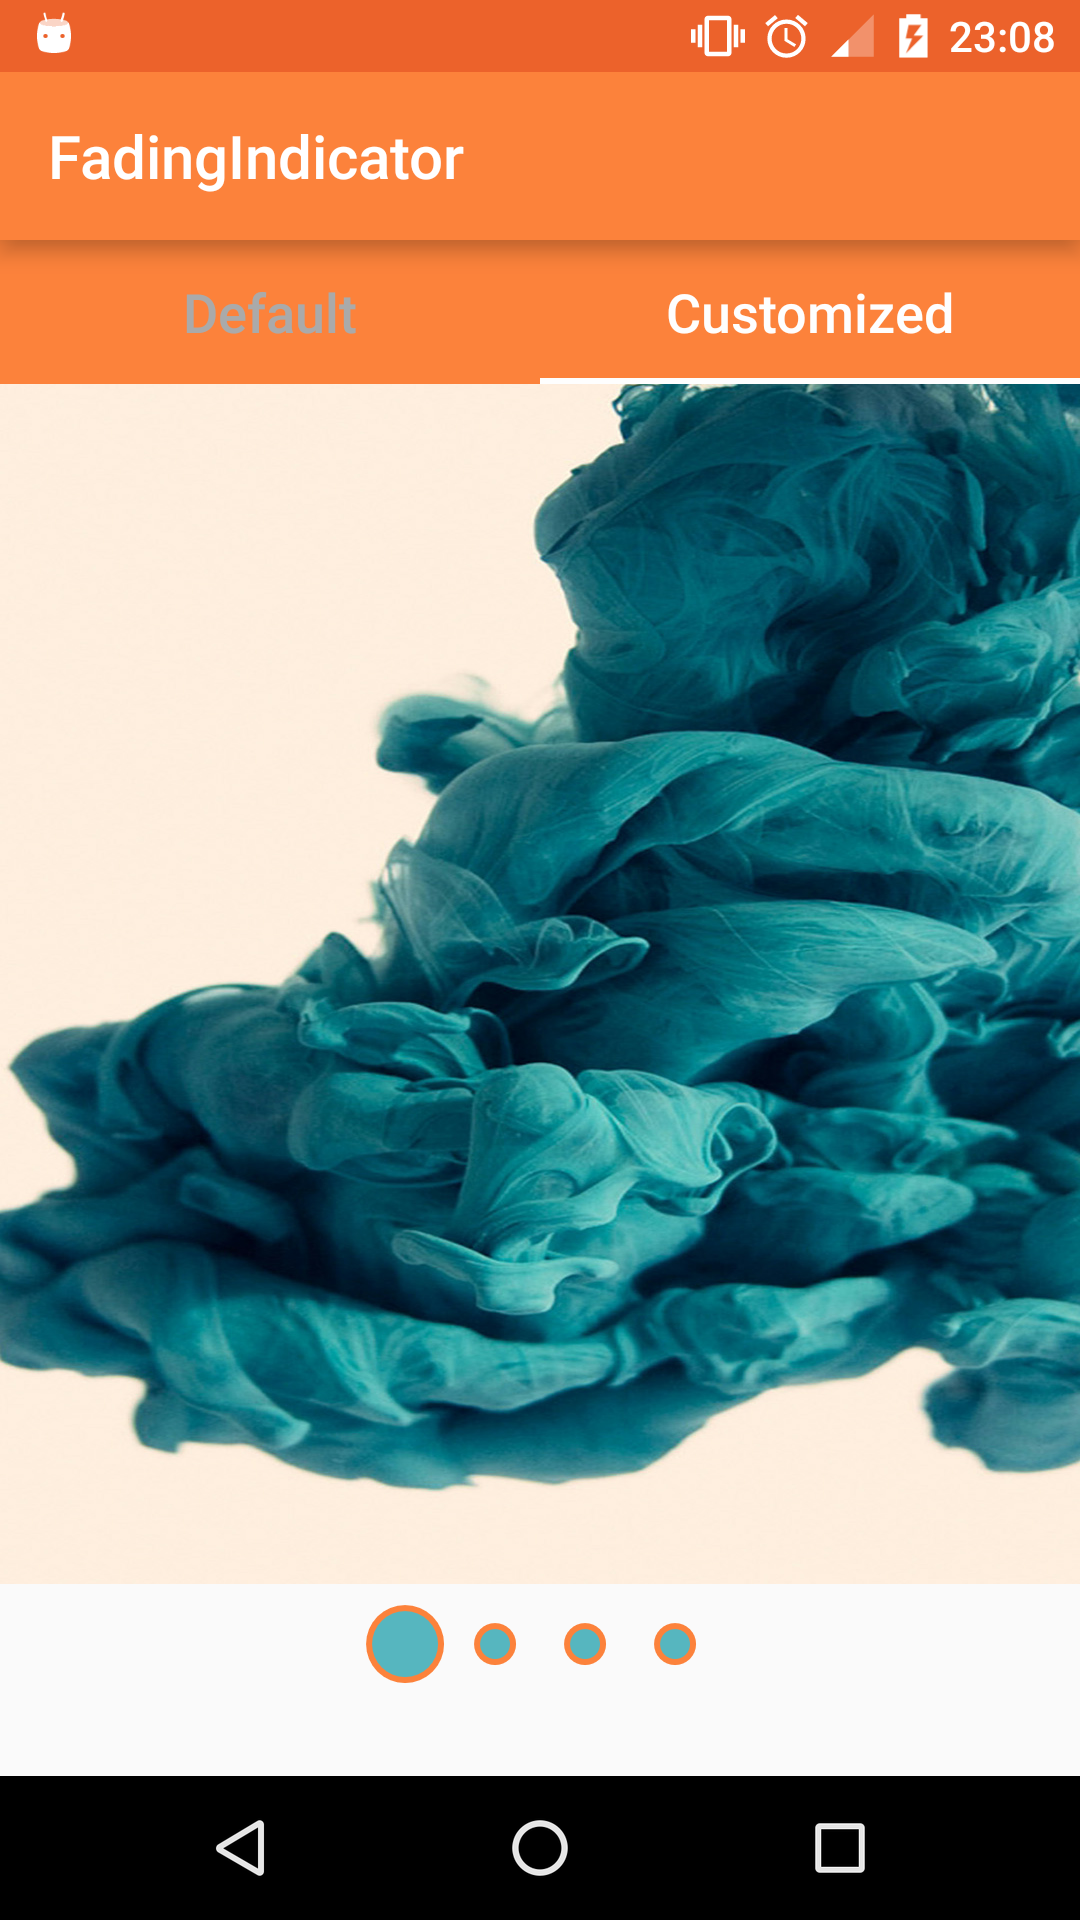
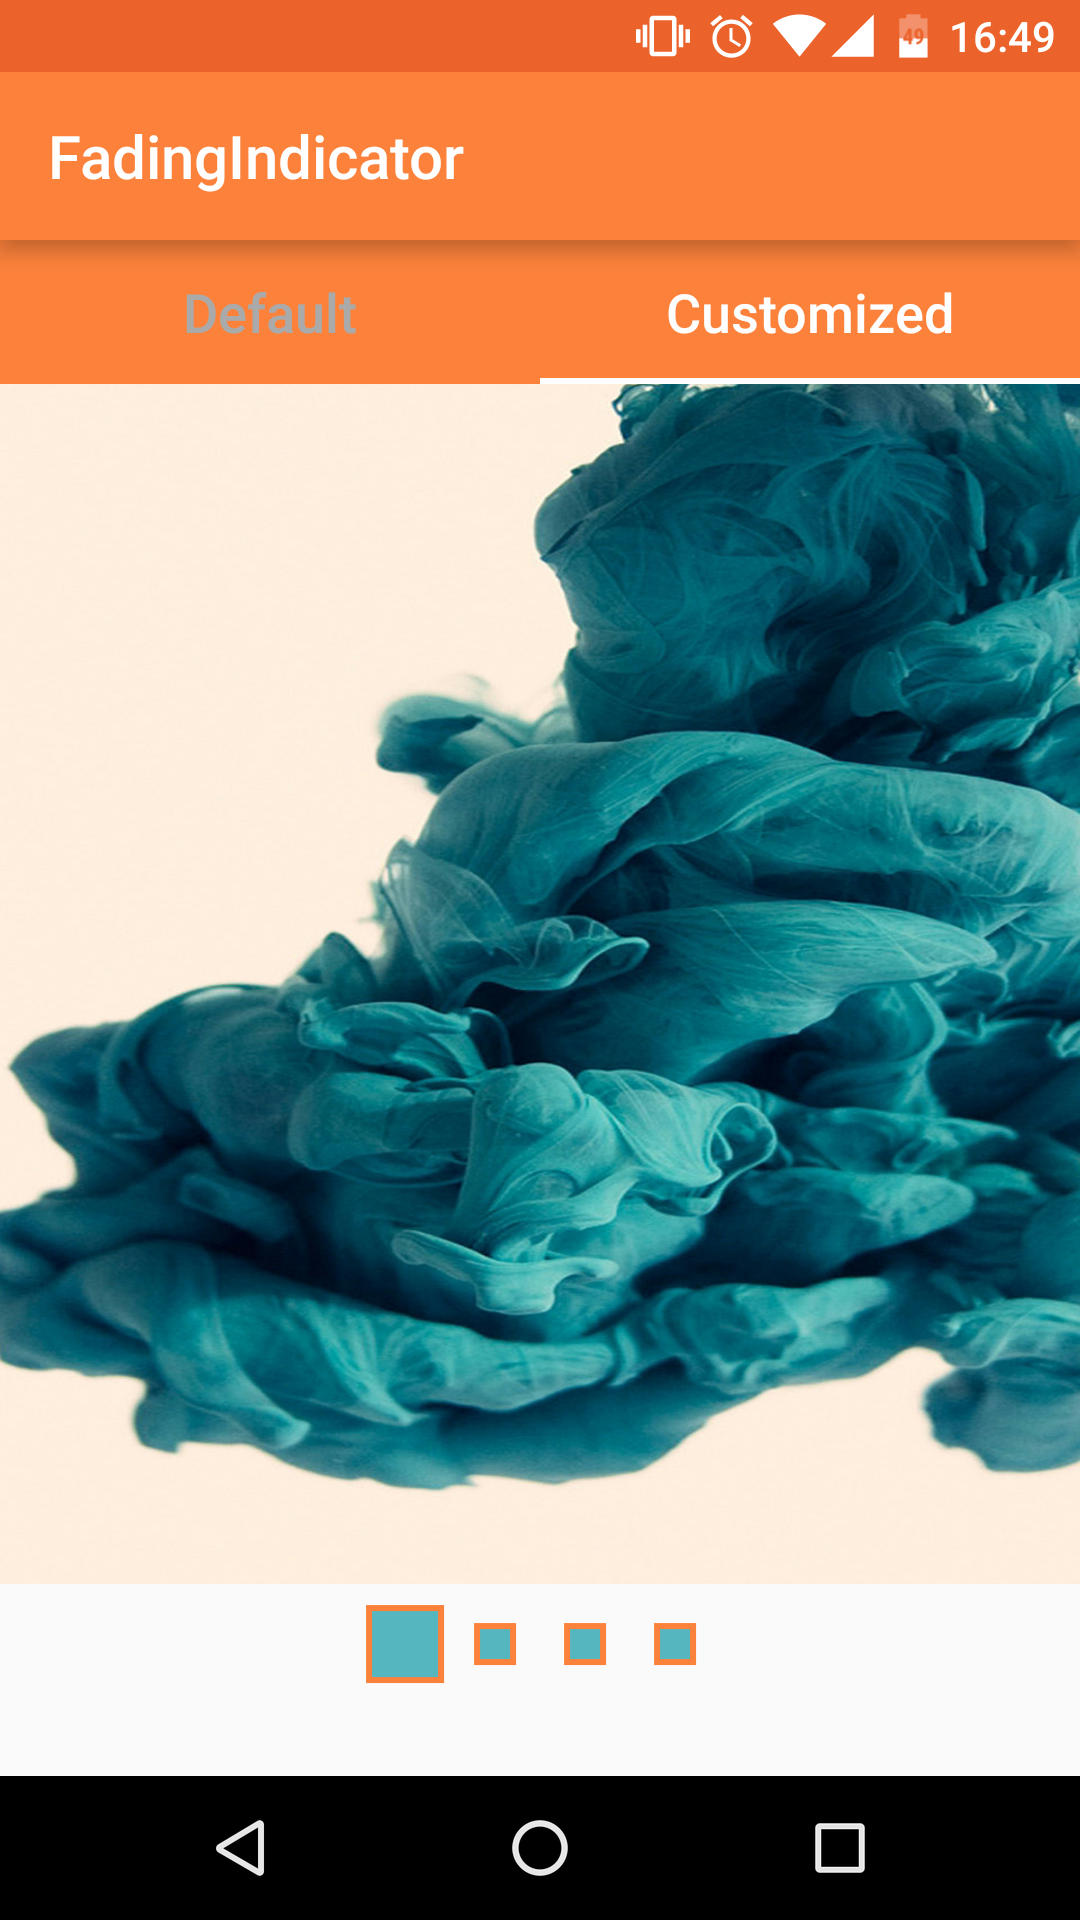
Adds Readme file

diff --git a/README.md b/README.md
@@ -1,0 +1,66 @@
+# fadingIndicator
+A simple indicator with fading animation for ViewPager in Android.
+<br>
+Most of the existing indicators don’t provide a smooth transition, this library fades indicators in and out when pager flipped.
+
+<H2>Images</H2>
+<img width="270px" height="480" src="/images/1.gif" />
+<img width="270px" height="480" src="/images/2.png" />
+<br>
+
+<H2>Usage</H2>
+
+```xml
+
+<com.ugurtekbas.fadingindicatorlibrary.FadingIndicator
+        android:id="@+id/circleIndicator"
+        android:layout_width="match_parent"
+        android:layout_height="wrap_content"
+        android:padding="10dp"
+        />
+        
+<!-- or with some attributes in xml -->        
+<com.ugurtekbas.fadingindicatorlibrary.FadingIndicator
+        android:id="@+id/circleIndicator"
+        android:layout_width="match_parent"
+        android:layout_height="wrap_content"
+        android:layout_centerHorizontal="true"
+        android:padding="10dp"
+        app:radius="10dp"
+        app:fillColor="#56B6BF"
+        app:strokeColor="#FC823B"
+        app:shape="rectangle"
+        />
+```
+
+```java
+FadingIndicator indicator = (FadingIndicator) findViewById(R.id.indicator);
+ViewPager viewpagerDefault = (ViewPager) findViewById(R.id.viewpager);
+//assigning indicator to viewpager
+indicator.setViewPager(viewpagerDefault);
+
+//Set fill color
+indicator.setFillColor(Color.RED);
+//Set stroke color
+indicator.setStrokeColor(Color.CYAN);
+//Set radius of indicator
+indicator.setRadius(40f);
+//Set shape of indicator
+indicator.setShape("rectangle");
+
+
+```
+<H2>License</H2>
+    Copyright 2016 ugurtekbas
+
+    Licensed under the Apache License, Version 2.0 (the "License");
+    you may not use this file except in compliance with the License.
+    You may obtain a copy of the License at
+
+     http://www.apache.org/licenses/LICENSE-2.0
+
+    Unless required by applicable law or agreed to in writing, software
+    distributed under the License is distributed on an "AS IS" BASIS,
+    WITHOUT WARRANTIES OR CONDITIONS OF ANY KIND, either express or implied.
+    See the License for the specific language governing permissions and
+    limitations under the License.
